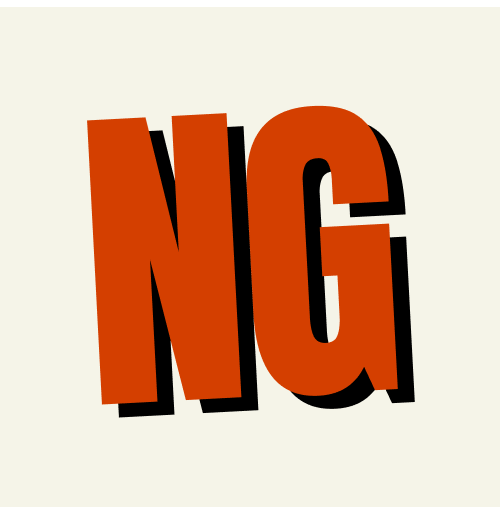
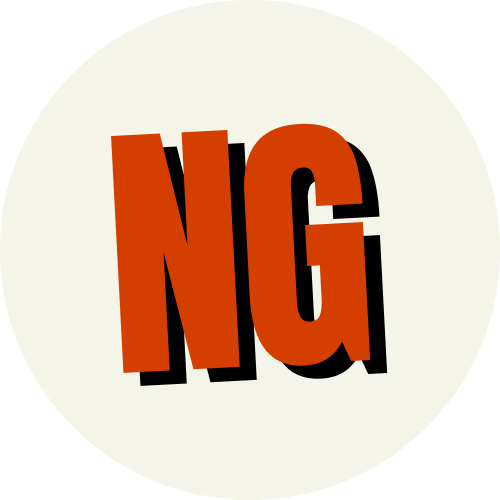
fixes mobile

Changed region(s): [[0.15, 0.18, 0.84, 0.81]]

diff --git a/src/components/Hero.jsx b/src/components/Hero.jsx
@@ -64,38 +64,50 @@ export default function Hero() {
     const handleResize = () => setWindowHeight(window.innerHeight);
     window.addEventListener("resize", handleResize);
 
+    let scrollRaf;
     const handleScroll = () => {
       if (!heroRef.current) return;
-      const rect = heroRef.current.getBoundingClientRect();
-      let progress = 0;
-      if (rect.top <= 0) {
-        // max progress is 6 for a 600vh container (1 per 100vh scrolling)
-        progress = Math.max(0, Math.min(6, -rect.top / window.innerHeight));
-      }
-      setScrollProgress(progress);
+      if (scrollRaf) cancelAnimationFrame(scrollRaf);
+      scrollRaf = requestAnimationFrame(() => {
+        const rect = heroRef.current.getBoundingClientRect();
+        let progress = 0;
+        if (rect.top <= 0) {
+          // max progress is 6 for a 600vh container (1 per 100vh scrolling)
+          progress = Math.max(0, Math.min(6, -rect.top / window.innerHeight));
+        }
+        setScrollProgress(progress);
+      });
     };
     
+    let pointerRaf;
     const handlePointerMove = (e) => {
-      if (e.pointerType === "touch") return;
-      const x = (e.clientX / window.innerWidth - 0.5) * 2;
-      const y = (e.clientY / window.innerHeight - 0.5) * 2;
-      setMousePos({ x, y });
-      setCursorPx({ x: e.clientX, y: e.clientY });
+      if (e.pointerType === "touch") return; // Keep mouse parallax for desktop
+      if (pointerRaf) cancelAnimationFrame(pointerRaf);
+      pointerRaf = requestAnimationFrame(() => {
+        const x = (e.clientX / window.innerWidth - 0.5) * 2;
+        const y = (e.clientY / window.innerHeight - 0.5) * 2;
+        setMousePos({ x, y });
+        setCursorPx({ x: e.clientX, y: e.clientY });
+      });
     };
 
+    let gyroRaf;
     let lastGyroTime = 0;
     const handleOrientation = (e) => {
       if (e.gamma === null || e.beta === null) return;
       
       const now = performance.now();
-      // Throttle to 10fps to let CSS transitions smoothly interpolate and remove jitter
-      if (now - lastGyroTime < 100) return;
+      // Throttle to ~30fps max to prevent mobile lag
+      if (now - lastGyroTime < 33) return;
       lastGyroTime = now;
 
-      // Dampen sensitivity by 50% for mobile
-      let x = Math.max(-1, Math.min(1, e.gamma / 90)) * 0.5;
-      let y = Math.max(-1, Math.min(1, (e.beta - 45) / 90)) * 0.5;
-      setMousePos({ x, y });
+      if (gyroRaf) cancelAnimationFrame(gyroRaf);
+      gyroRaf = requestAnimationFrame(() => {
+        // Dampen sensitivity by 60% for smooth mobile feel
+        let x = Math.max(-1, Math.min(1, e.gamma / 90)) * 0.4;
+        let y = Math.max(-1, Math.min(1, (e.beta - 45) / 90)) * 0.4;
+        setMousePos({ x, y });
+      });
     };
 
     window.addEventListener("scroll", handleScroll, { passive: true });
@@ -108,6 +120,9 @@ export default function Hero() {
       window.removeEventListener("scroll", handleScroll);
       window.removeEventListener("pointermove", handlePointerMove);
       window.removeEventListener("deviceorientation", handleOrientation);
+      if (scrollRaf) cancelAnimationFrame(scrollRaf);
+      if (pointerRaf) cancelAnimationFrame(pointerRaf);
+      if (gyroRaf) cancelAnimationFrame(gyroRaf);
     };
   }, []);
 
@@ -171,7 +186,6 @@ export default function Hero() {
           style={{ 
             transform: b1Transform, 
             opacity: b1Opacity,
-            transition: 'transform 0.08s ease-out, opacity 0.08s ease-out',
             pointerEvents: scrollProgress < 0.5 ? 'auto' : 'none',
             willChange: 'transform, opacity'
           }}
@@ -256,7 +270,6 @@ export default function Hero() {
           style={{ 
             transform: b2Transform, 
             opacity: b2Opacity,
-            transition: 'transform 0.08s ease-out, opacity 0.08s ease-out',
             pointerEvents: (scrollProgress > 0.5 && scrollProgress < 1.7) ? 'auto' : 'none',
             willChange: 'transform, opacity'
           }}
@@ -411,7 +424,6 @@ export default function Hero() {
           style={{ 
             transform: b3Transform, 
             opacity: b3Opacity,
-            transition: 'transform 0.08s ease-out, opacity 0.08s ease-out',
             pointerEvents: scrollProgress > 2.3 ? 'auto' : 'none',
             willChange: 'transform, opacity'
           }}